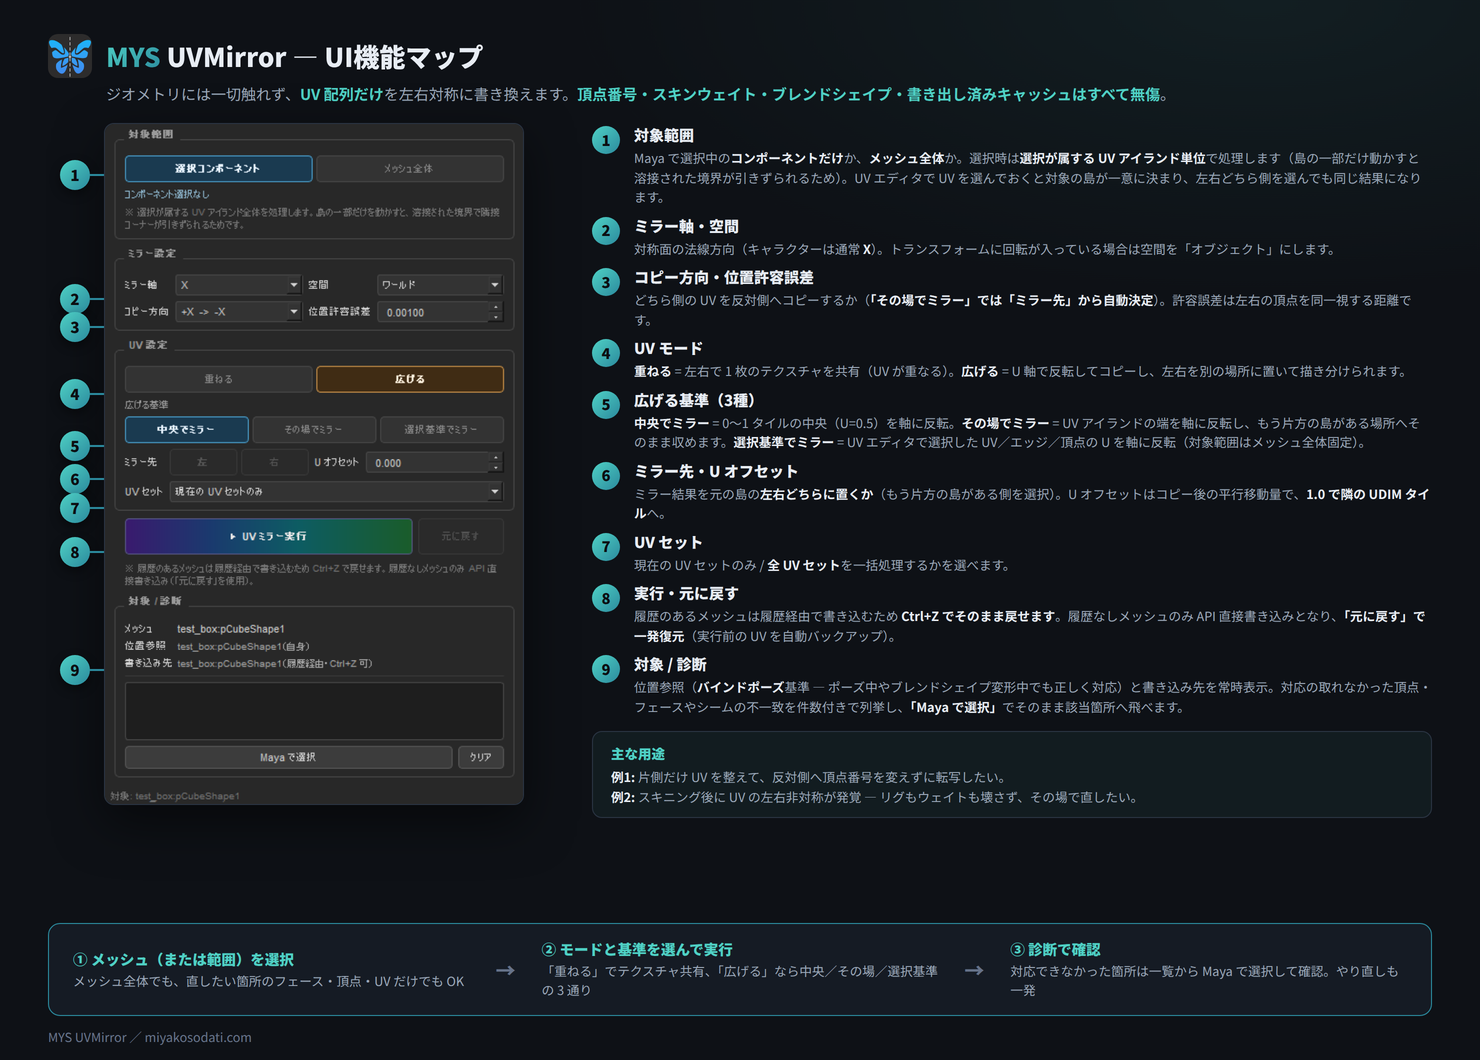
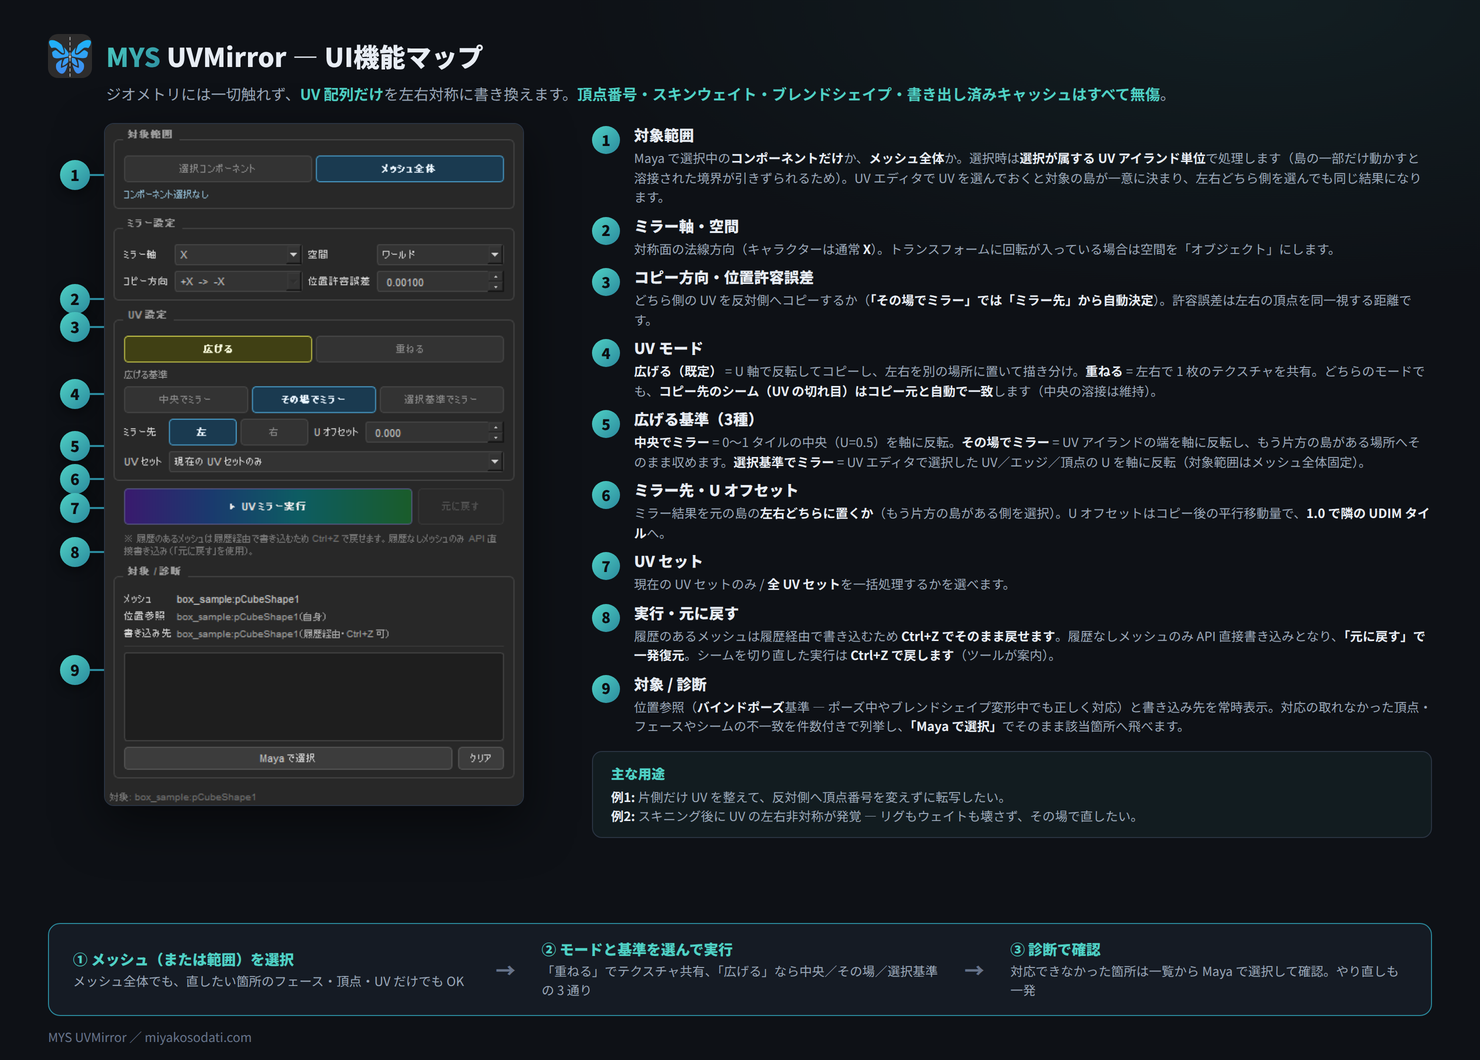
UVMirror v2.1.2: シーム自動一致・広げるを既定に、画像/操作GIF更新

diff --git a/tools/uvmirror/index.html b/tools/uvmirror/index.html
@@ -27,7 +27,7 @@
 
   <div class="tool-head">
     <div class="crumb"><a href="/">MYS Tools</a> / UVMirror</div>
-    <h1>MYS UVMirror <span style="font-size:16px;color:var(--tx3)">v1.9.0</span></h1>
+    <h1>MYS UVMirror <span style="font-size:16px;color:var(--tx3)">v2.1.2</span></h1>
     <div class="tag">頂点番号を変えない UV ミラー — スキンウェイトもブレンドシェイプも無傷のまま、UV だけを左右対称に</div>
     <div class="badges">
       <span class="bd dcc">Maya 2020–2026</span>
@@ -36,7 +36,7 @@
       <span class="bd">無償・商用利用可</span>
     </div>
     <div class="dl-row">
-      <a class="dl-btn" href="https://github.com/miyakosodati/miyakosodati.github.io/releases/download/uvmirror-v1.9.0/MYS_UVMirror_v1.9.0.zip">ダウンロード（v1.9.0）</a>
+      <a class="dl-btn" href="https://github.com/miyakosodati/miyakosodati.github.io/releases/download/uvmirror-v2.1.2/MYS_UVMirror_v2.1.2.zip">ダウンロード（v2.1.2）</a>
       <div class="dl-note">ダウンロード・使用により<a href="/eula/">使用許諾契約（EULA）</a>に同意したものとみなされます。社外への再配布はできません。</div>
     </div>
   </div>
@@ -47,13 +47,14 @@
   <ul>
     <li>UVMirror はジオメトリに一切触れず、<strong>UV 配列だけを書き換えます</strong>。メッシュ単位での「半分削除 → ミラー → マージ」では頂点番号が変わってしまい、関連する機能にも波及しますが、本ツールでは<strong>それを無傷で実行</strong>できます。</li>
     <li><strong>メッシュ全体でも、選択したコンポーネントだけの部分ミラーでも</strong>。選択時は選択が属する <strong>UV アイランド単位</strong>で処理され、左右どちら側を選んでも同じ結果になります。UV エディタで UV を選んでおくと、対象の島が一意に決まります。</li>
-    <li>UV モードは2種類。<strong>「重ねる」</strong>で左右 1 枚のテクスチャを共有、<strong>「広げる」</strong>で左右を別領域に描き分け。広げる基準は<strong>中央 / その場 / 選択基準の3種類</strong>で、「その場でミラー」なら、もう片方の島がある場所へそのまま収められます。U オフセット 1.0 で<strong>隣の UDIM タイルへの振り分け</strong>もできます。</li>
+    <li>UV モードは2種類。<strong>「広げる」（既定）</strong>で左右を別領域に描き分け、<strong>「重ねる」</strong>で左右 1 枚のテクスチャを共有。広げる基準は<strong>中央 / その場 / 選択基準の3種類</strong>で、「その場でミラー」なら、もう片方の島がある場所へそのまま収められます。U オフセット 1.0 で<strong>隣の UDIM タイルへの振り分け</strong>もできます。</li>
+    <li>どちらのモードでも、<strong>コピー先のシーム（UV の切れ目）はコピー元と自動で一致</strong>します（中央の溶接は常に維持）。シームの不一致による面の引き伸ばしや不要な分割は起こりません。</li>
     <li>左右対応は<strong>バインドポーズの座標</strong>から取るため、ポーズ中やブレンドシェイプ変形中でも正しくミラーできます。対応が取れなかった箇所は<strong>診断リスト</strong>に列挙され、「Maya で選択」でそのまま確認できます。</li>
   </ul>
 
   <img class="figure" src="/assets/img/uvmirror/uimap.png" alt="MYS UVMirror UI機能マップ — 各セクションの役割">
   <h2 class="sec">実際の操作</h2>
-  <img class="figure" src="/assets/img/uvmirror/gif-1.gif" alt="MYS UVMirror 操作デモ — 「広げる（その場でミラー）」でUVを左右対称化し、診断0件で完了するまで">
+  <img class="figure" src="/assets/img/uvmirror/gif-1.gif" alt="MYS UVMirror 操作デモ — 「広げる」「重ねる」両モードでUVを左右対称化し、診断0件で完了するまで">
 
   <h2 class="sec">動作環境</h2>
   <table class="spec">
@@ -70,11 +71,13 @@
   <h2 class="sec">承知しておきたいこと</h2>
   <ul>
     <li>履歴のあるメッシュへは履歴経由で書き込むため <strong>Ctrl+Z でそのまま戻せます</strong>。履歴のないメッシュのみ API 直接書き込みとなり、その場合はツール内の<strong>「元に戻す」ボタン</strong>で実行前の UV に復元してください（自動でバックアップされています）。</li>
+    <li>シームを切り直した実行は、「元に戻す」ボタンではなく <strong>Ctrl+Z</strong> で戻してください（実行後にツールが案内します）。シームの一致処理はカレント UV セットにのみ適用されます。</li>
     <li>左右対応は頂点の位置から取ります。左右の位置ずれが大きいモデルでは「位置許容誤差」を調整してください。対応が取れなかった箇所は診断リストに表示されます。</li>
   </ul>
 
   <h2 class="sec">更新履歴</h2>
   <table class="spec">
+    <tr><th>v2.1.2（2026-08-26）</th><td>ミラー時にコピー先のシーム（UVの切れ目）をコピー元と自動で一致させるように（中央の溶接は維持）。シーム不一致による面の引き伸ばし・不要な分割が解消。UVモードの並びを [ 広げる / 重ねる ] に変更し「広げる」を既定に</td></tr>
     <tr><th>v1.9.0（2026-08-18）</th><td>警告のモーダルダイアログを廃止し、ステータスバー+診断リストへの通知に変更（作業の手を止めない）。UVモードのボタンを色分け（重ねる=緑 / 広げる=橙）</td></tr>
     <tr><th>v1.8.0（2026-08-11）</th><td>「広げる」（旧: U 軸で反転）の基準を3種類に拡張（中央 / その場 / 選択基準）。「選択コンポーネント」処理をUVアイランド単位に変更。UI文言を全体的に見直し</td></tr>
     <tr><th>v1.0.0（2026-08-10）</th><td>初回公開</td></tr>
